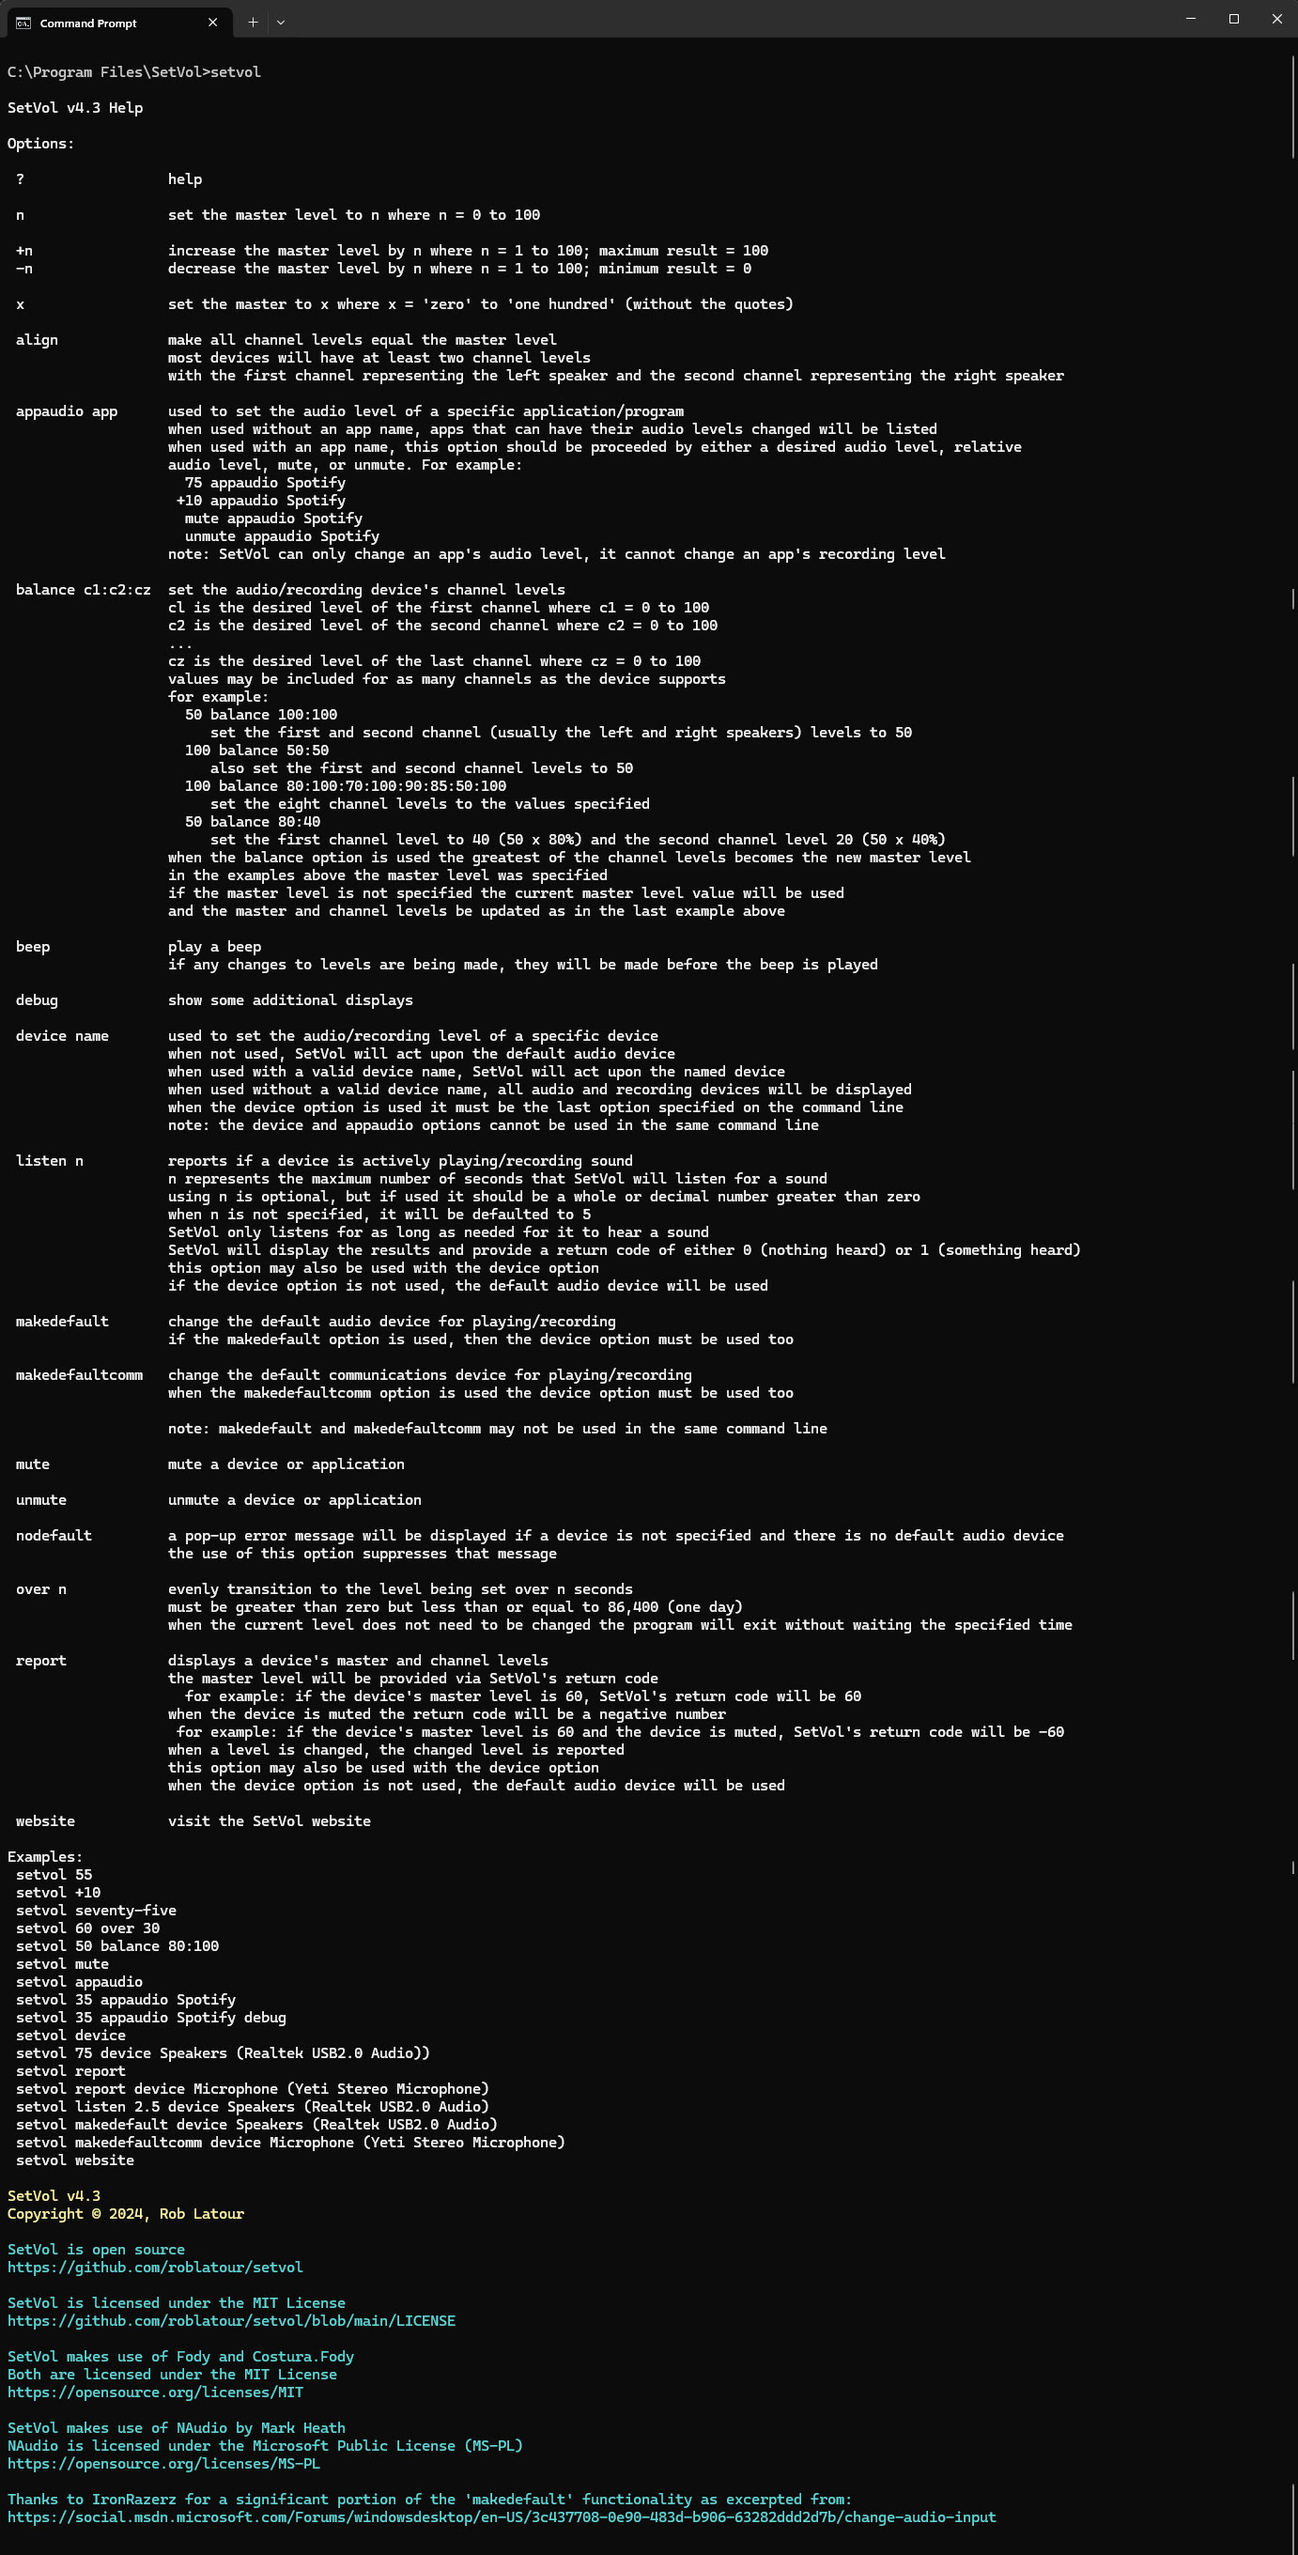
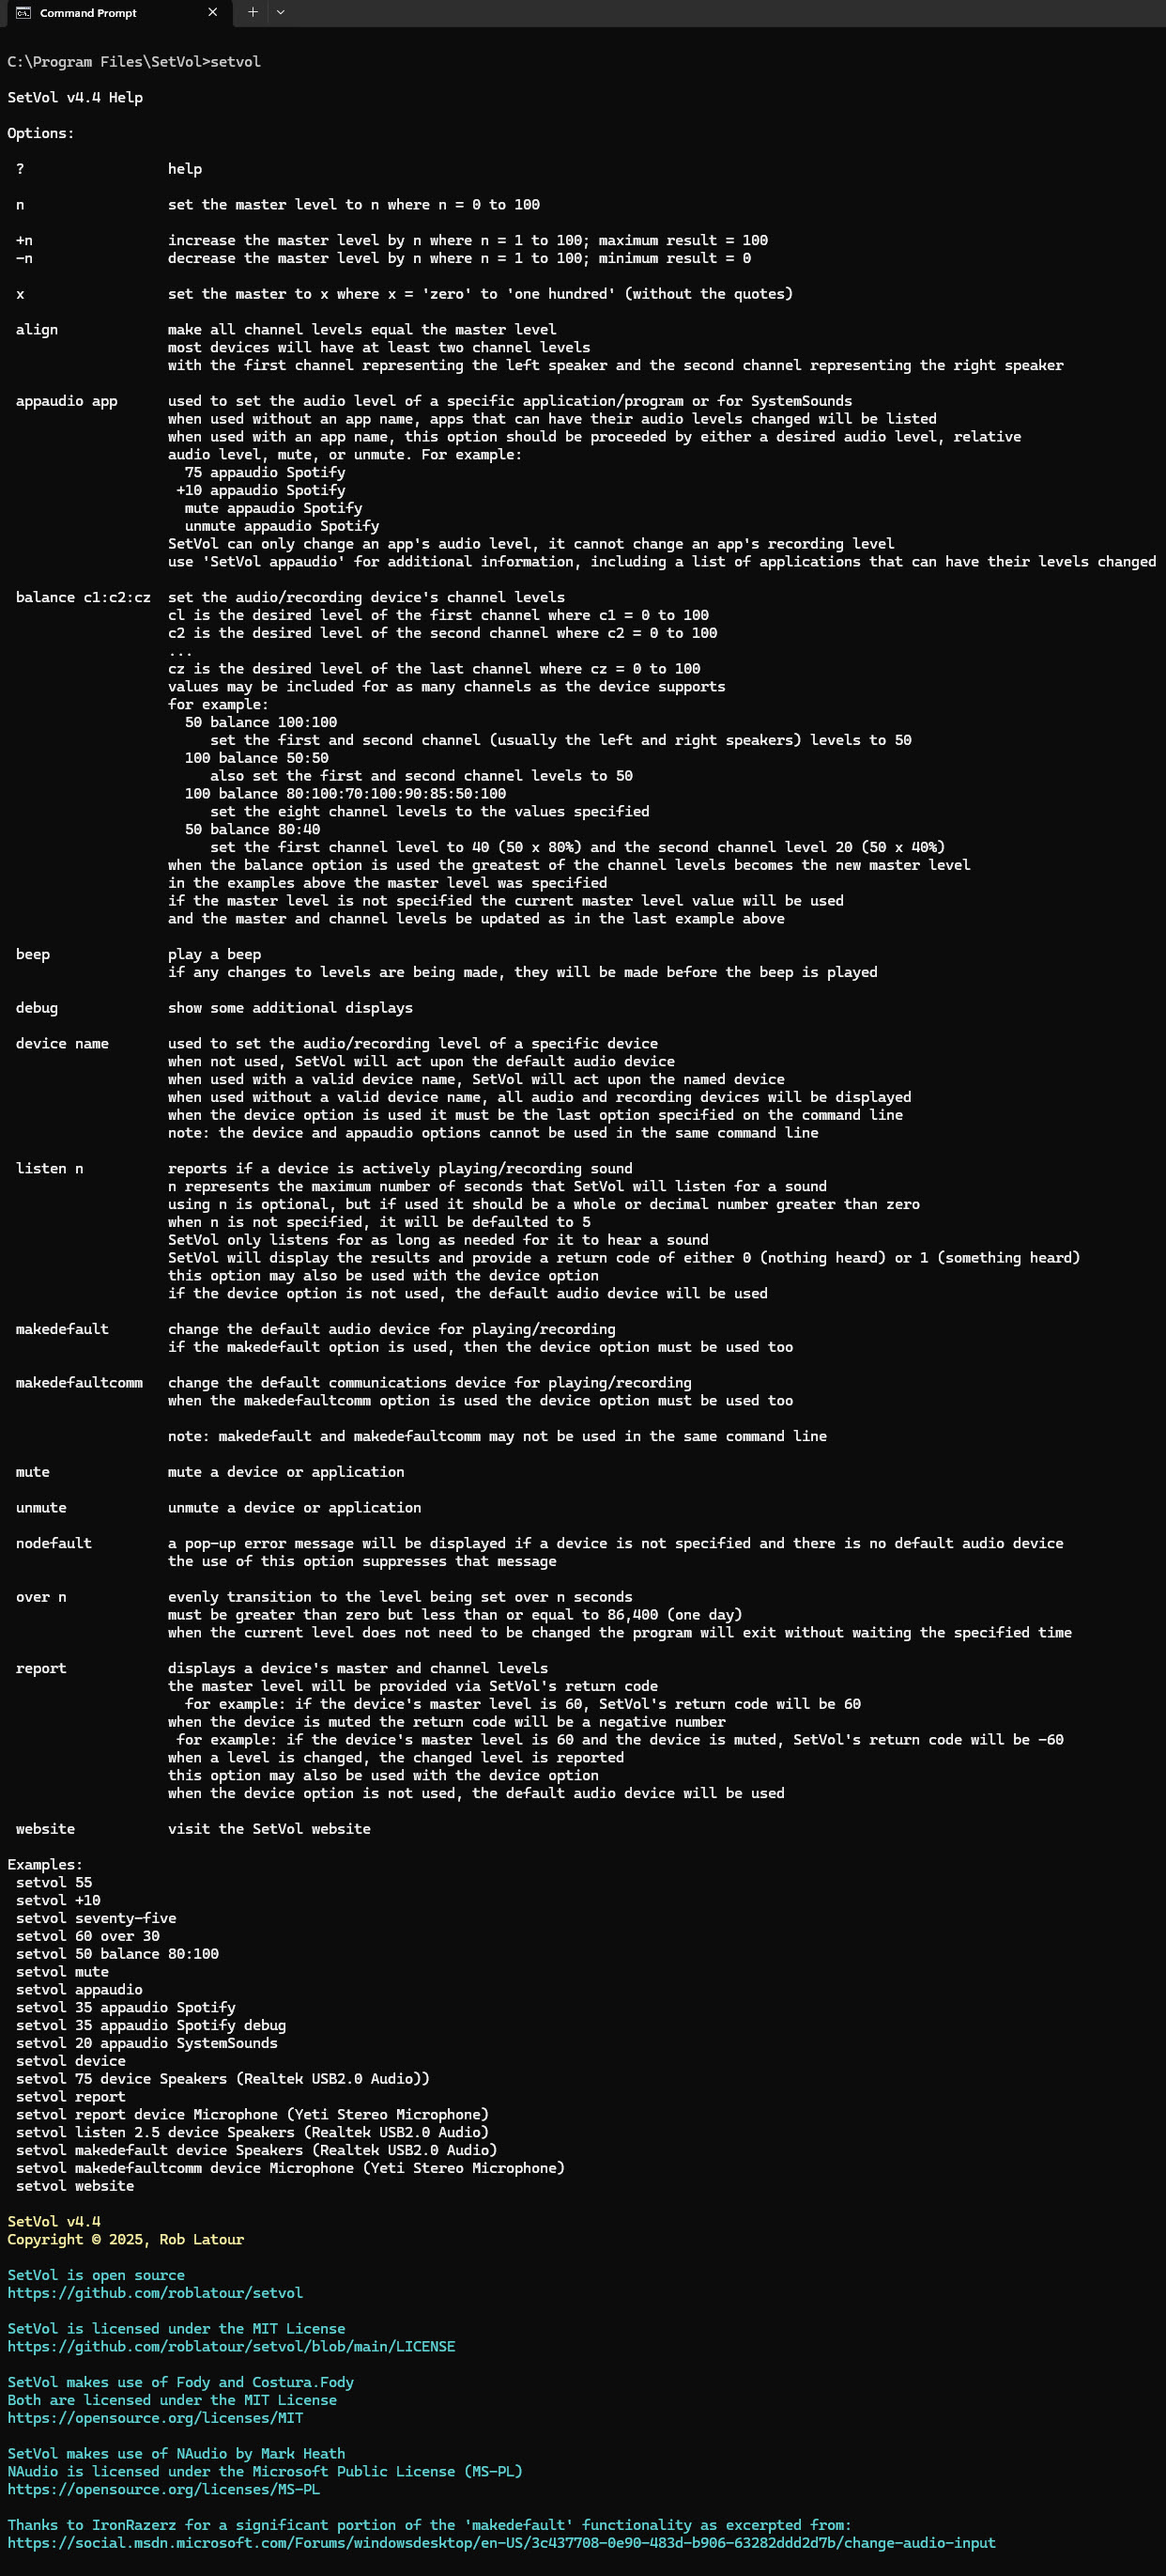
v4.4 release

diff --git a/README.md b/README.md
@@ -1,4 +1,4 @@
-# SetVol (v4.3 December 4, 2024)
+# SetVol (v4.4 January 1, 2025)
 SetVol is a free open source command line program for Windows to change and report on your computer's audio and recording levels.  It also allows you to set your default audio and recording devices.
 
 ## Download 
@@ -7,7 +7,7 @@ You are welcome to download and use SetVol for free on as many computers as you 
 
 A downloadable zipped signed executable of the program is available from [here](https://github.com/roblatour/setvol/releases/download/v4.3.0.0/SetVol.zip).
 
-# License
+## License
 SetVol is licensed under a [MIT license](https://github.com/roblatour/setvol/blob/main/LICENSE)
 
 ## Setup
@@ -97,5 +97,5 @@ https://social.msdn.microsoft.com/Forums/windowsdesktop/en-US/3c437708-0e90-483d
  To help support SetVol, or to just say thanks, you're welcome to 'buy me a coffee'<br><br>
 [<img alt="buy me  a coffee" width="200px" src="https://cdn.buymeacoffee.com/buttons/v2/default-blue.png" />](https://www.buymeacoffee.com/roblatour)
 * * *
-Copyright © 2024, Rob Latour
+Copyright © 2025, Rob Latour
 * * *
